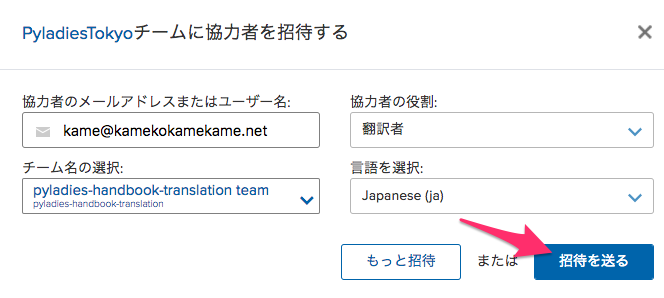
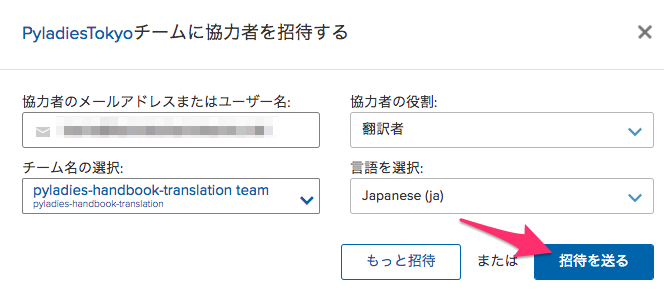
Wrote information

Changed region(s): [[0.0904, 0.4228, 0.4217, 0.4832]]

diff --git a/README.md b/README.md
@@ -1,23 +1,96 @@
 # pyladies-handbook-translation
-pyladies handbookの日本語訳を進めようのコーナー
-[http://kit.pyladies.com/](http://kit.pyladies.com/)
 
-- issueで担当翻訳範囲をゲッチューしてください
-- できたらプルリクしてください
-  - ブランチ名は `feature/#issue番号` でお願いします
-  - プルリクする際は原文と翻訳文の両方を残したまま投げてください
-  
-```markdown
-Hello, World!
-こんにちは, 世界!
+PyLadiesには、[PyLadies Organizer Handbook](http://kit.pyladies.com/) というハンドブックがあります。
+このハンドブックの翻訳プロジェクトです。
 
-```
+## 目的
+- [PyLadies Organizer Handbook](http://kit.pyladies.com/)の日本語化
+- 本家と同様に `pip` コマンドでインストールできるようにする
+- 本家ハンドブックに `/ja` として取り込んでもらう
+
+## 方法
+翻訳には、`docs.python.org` でも利用されている [transifex](https://www.transifex.com/) を利用します。
+
+## 翻訳者になるには
+[PyLadies Japan Slack](https://pyladies-japan.slack.com/) の `#handbook-translation` 部屋で翻訳者に立候補してください。管理者が招待します。
+
+翻訳とレビューができるユーザーとして招待します。
+
+不明なことは `#handbook-translation` 部屋で確認してください。
+
+## アカウントの登録
+管理者から [transifex](https://www.transifex.com/) への招待メールが来ます。
+
+メールのタイトルは「[管理者名] has invited you to join Transifex」です。「Accept Invitation」ボタンをクリックします。
+
+![user_invite_01](images/readme/user_invite_01.png)
+
+翻訳プロジェクト参加画面が表示されますので、ユーザー名、メールアドレス、パスワード、氏名（表示名）、言語「Japanese(ja)」を選択し、「アカウントを作成」をクリックします。
+
+![user_invite_02](images/readme/user_invite_02.png)
+
+- ここまでできたら、管理者が「承認」を行うまで待ちます。
+
+- `Your request to join the translation team 'pyladies-handbook-translation team' was accepted!` というタイトルのメールが来たら、「Start Translating」をクリックします。
+
+![user_invite_03](images/readme/user_invite_03.png)
+
+これで、翻訳に参加できます。
+
+## 翻訳する
+
+「ダッシュボード」を選択し、「翻訳」ボタンをクリックします。
+
+![user_01](images/readme/user_01.png)
+
+言語「Japanese(ja)」を選択します。
+
+![user_02](images/readme/user_02.png)
+
+「未翻訳」が存在する行を選びます。
+
+![user_03](images/readme/user_03.png)
+
+翻訳する行を選びます。右側に翻訳文を入力します。気になることがあったら、「コメント」を書いてください。
+
+![user_04](images/readme/user_04.png)
+
+## レビューする
+慣れてきたら、他の人の翻訳をレビューしましょう。
+
+ダッシュボードから、翻訳一覧に移動し、「レビュー待ちの文字列」が存在する行を選びます。
+
+![review_01](images/readme/review_01.png)
+
+左上の「レビュー待ち」の数字をクリックすると、レビュー待ちの一覧が表示されます。
+内容を確認し、直に修正するか、コメントを付けましょう。
+レビューが終了したら、コメントに **LGTM（Looks Good To Me）** と書いてください。コードレビューなどで使われる自分的にはOKという意味です。
+レビューボタンは押さないでください。
+
+![review_02](images/readme/review_02.png)
 
 
-- Pyladies Japanメンバーのみなさん
-  - forkして翻訳お願いします。 issueにやります宣言してもらえればそれで管理します。
-  - GitHubの使い方がわからないなど翻訳作業についてのあれこれは Pyladies Japan のSlack内 #handbook-translation へ！
-- PyLadies Japanスタッフのみなさん
-  - プルリクマージ係です(もちろん翻訳も大歓迎です)
-  - プルリクがきたら2名以上のLGTMをもってマージとしてください
-  - 何か不明点などあれば Pyladies JapanのSlack内 #handbook-translation へ
+## 【管理者向け】翻訳者の追加方法
+
+- Slackで依頼を貰ったら、[transifex](https://www.transifex.com/)にログインします。
+- ヘッダーの「チーム」を選択します。
+- 「協力者を招待」ボタンをクリックします。
+
+![admin_invite_01](images/readme/admin_invite_01.png)
+
+- 協力者のメールアドレス、協力者の役割「翻訳者」、チーム名の選択「pyladies-handbook-translation team」、言語を選択「Japanese(ja)」を選択
+- 「招待を送る」をクリックします。
+
+![admin_invite_02](images/readme/admin_invite_02.png)
+
+翻訳者がアカウントを登録すると、チーム概要画面に「承認待ちの参加申請」リンクが出るのでクリックします。
+
+![admin_invite_03](images/readme/admin_invite_03.png)
+
+承認します。
+
+![admin_invite_04](images/readme/admin_invite_04.png)
+
+## 決まり
+
+- 1つの訳に2つの **LGTM** がついたら、レビューボタンを押して、完了とします。
